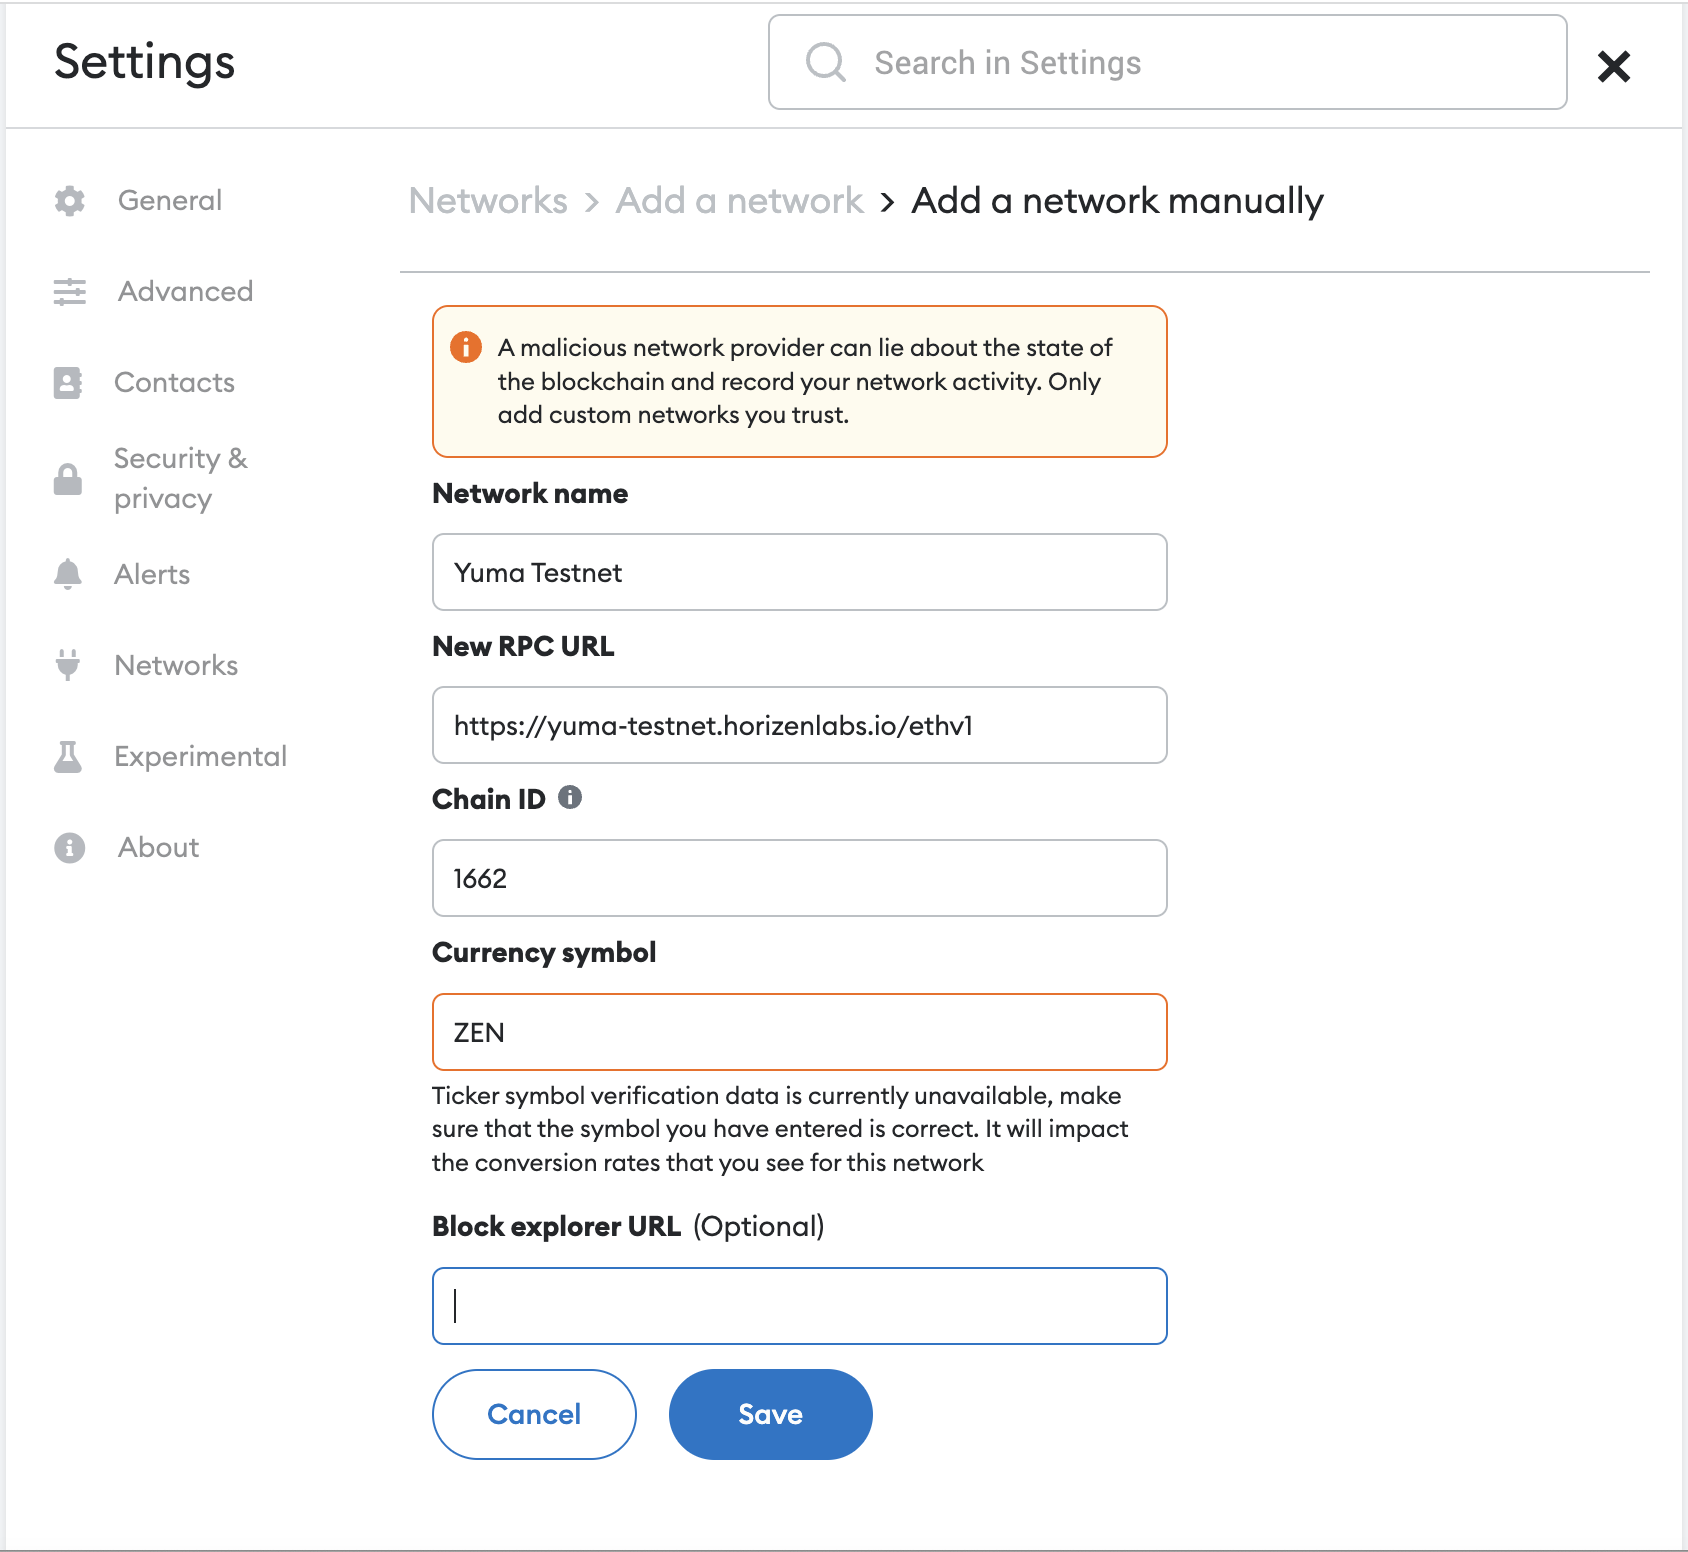
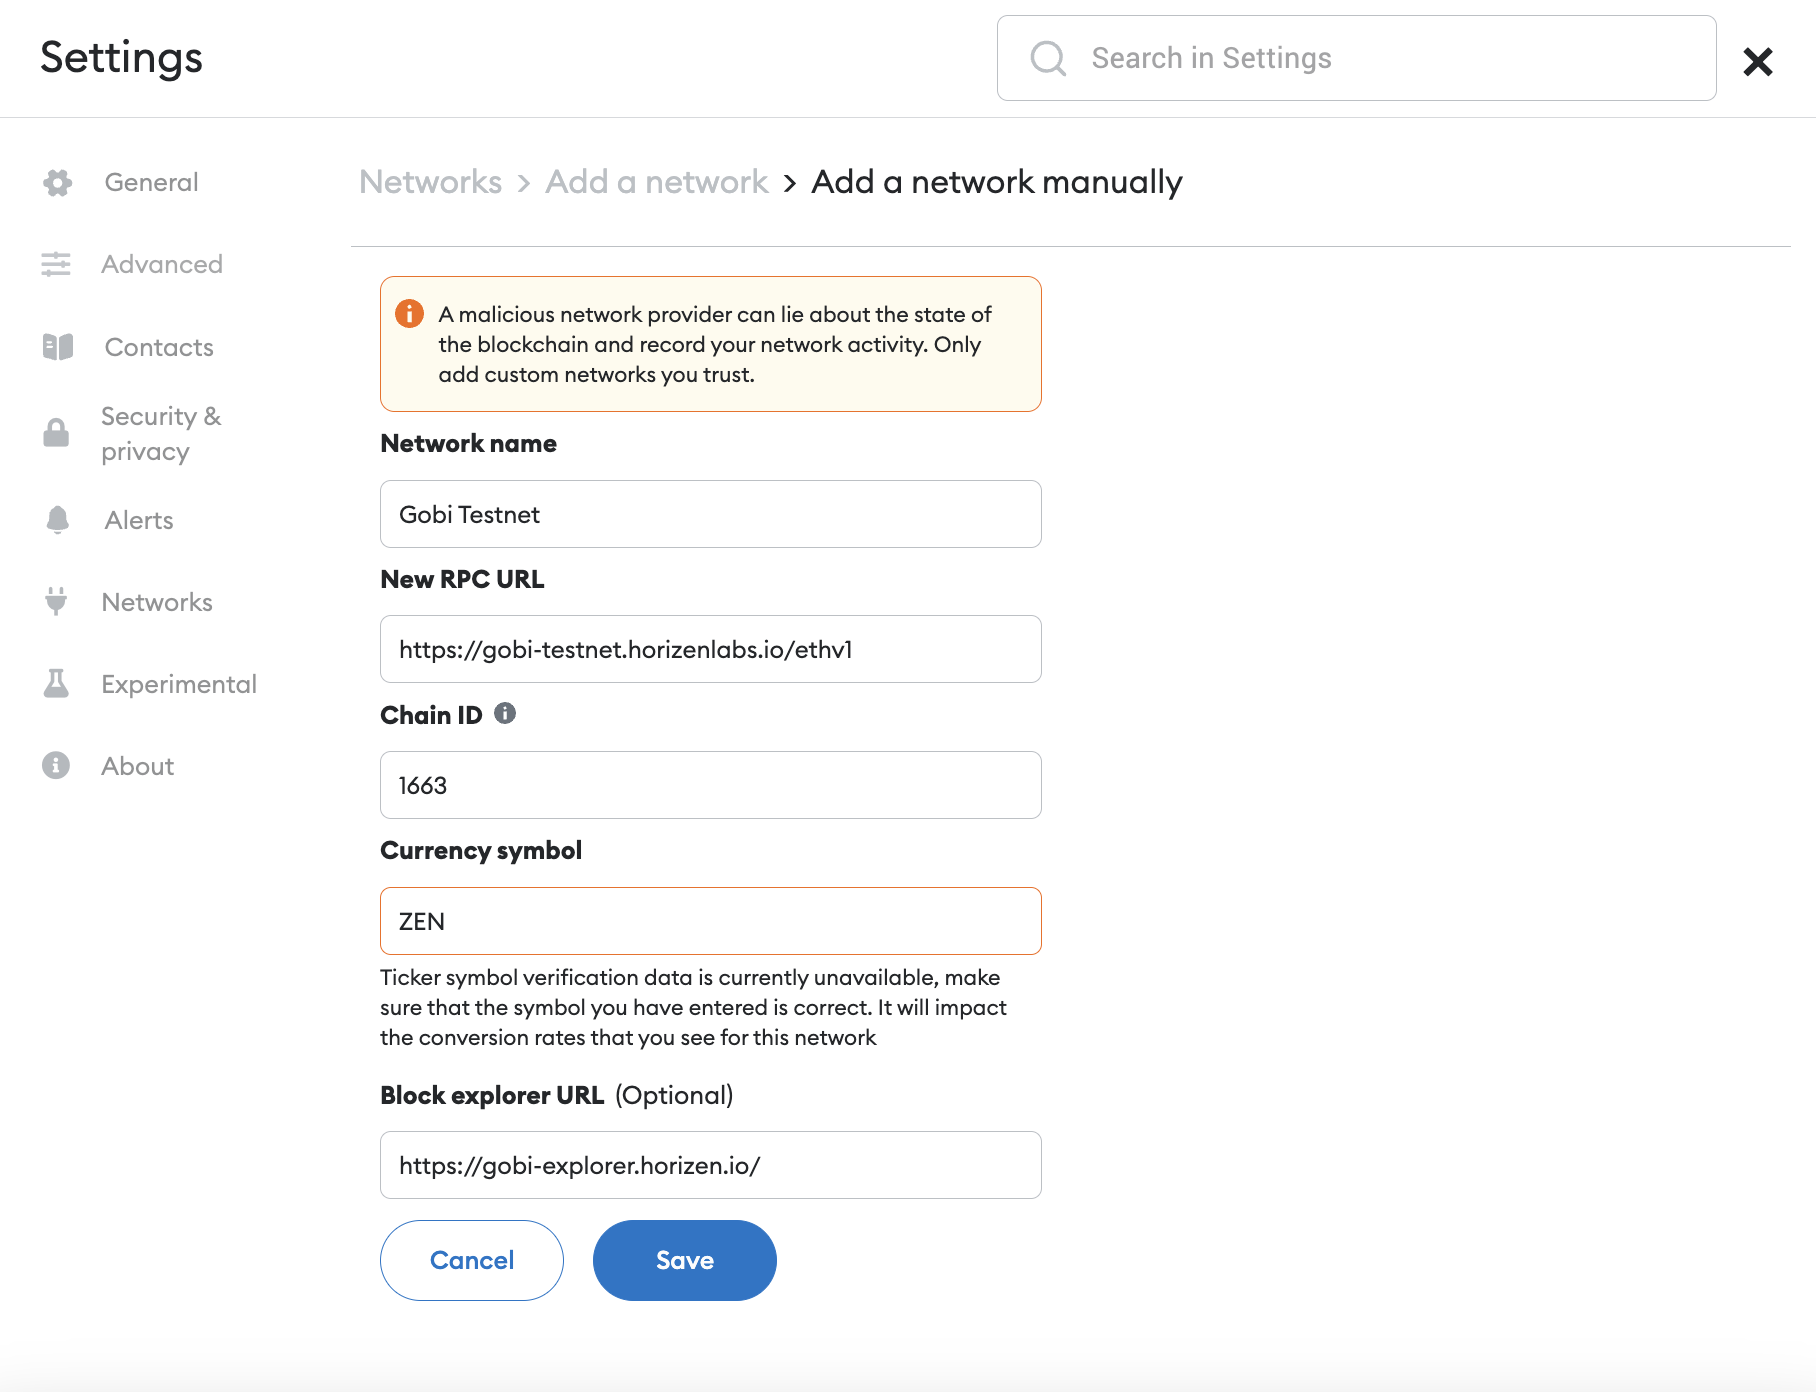
feat: update yuma => gobi

diff --git a/docs/deploy.md b/docs/deploy.md
@@ -8,7 +8,7 @@ sidebar_position: 5
 ## Deploying a Contract using Truffle
 
 Once the DemoToken contract is successfully compiled, it can now be deployed. 
-However, before deploying, make sure that the account you plan to use has sufficient ZEN. See [Get Started](/#connect-to-a-wallet) to install the MetaMask wallet, if needed. To deploy a contract on Dune Testnet or Gobi Testnet, your account must have sufficient ZEN. You can get some free test ZEN by using the [**Faucet**](https://gobi-testnet-faucet.horizen.io/ ).
+However, before deploying, make sure that the account you plan to use has sufficient ZEN. See [Get Started](/#connect-to-a-wallet) to install the MetaMask wallet, if needed. To deploy a contract on Dune Testnet or Gobi Testnet, your account must have sufficient ZEN. You can get some free test ZEN by using the [**Faucet**](https://faucet.horizen.io/ ).
 
 
 Add the deployment script, [1_deploy_DEMOToken.js](https://github.com/rocknitive/zen-sidechain-truffle/blob/master/migrations/1_deploy_DemoToken.js)  (below) in the `/migrations` folder:
@@ -563,7 +563,7 @@ Perform the following steps to run and deploy your smart contract:
 **Environment** - Click the drop-down menu to select the **Injected Provider** option.
 This option allows Remix to use your wallet (e.g. MetaMask). Your wallet must be active and running.  The Environment option details information about your wallet, such as the ChainID.
 
-**Note:** Make sure that **Yuma Testnet** is selected as the current environment in your wallet. See the [Get Started](https://eon.horizen.io/docs/) section for details on configuring Yuma Testnet to your wallet.
+**Note:** Make sure that **Gobi Testnet** is selected as the current environment in your wallet. See the [Get Started](https://eon.horizen.io/docs/) section for details on configuring Gobi Testnet to your wallet.
 
 
 By default, the **Remix VM** (previously called JavaScript VM) is used to connect to a sandbox blockchain in the web browser. The London version refers to the London fork of Ethereum. 
@@ -735,7 +735,7 @@ Use the following parameters to connect to Gobi Testnet:
 ```
 Network name:  Gobi Testnet 
 New RPC URL:  https://gobi-testnet.horizenlabs.io/ethv1 
-Chain ID: 1662 
+Chain ID: 1663 
 Currency symbol: ZEN
 ```
 

diff --git a/docs/build.md b/docs/build.md
@@ -136,7 +136,7 @@ A network is needed in order to deploy a smart contract. In the configuration fi
 …networks: {    
 	zen: {
 		provider: () => new HDWalletProvider("word1 … word12", `https://gobi-testnet.horizenlabs.io/ethv1`),
-      network_id: 1662,  
+      network_id: 1663,  
       production: false
     }
 …
@@ -147,7 +147,7 @@ A network is needed in order to deploy a smart contract. In the configuration fi
 
 **Note**: In the account field, replace “**word1 … word12**” with a mnemonic seed phrase for a valid wallet. Use the following [instructions](https://metamask.zendesk.com/hc/en-us/articles/360015290032-How-to-reveal-your-Secret-Recovery-Phrase) to retrieve your mnemonic seed phrase from MetaMask.
 
-The <code>network_id</code> is dependent on the environment in use and corresponds to the Chain ID. For Gobi Testnet, the Chain ID is **1662**.
+The <code>network_id</code> is dependent on the environment in use and corresponds to the Chain ID. For Gobi Testnet, the Chain ID is **1663**.
 
 Next, add this line at the top of the file:
 
@@ -196,7 +196,7 @@ truffle(zen)> web3.eth.getBlockNumber()
 
 ```
 truffle(zen)> web3.eth.getChainId()
-1662
+1663
 ```
 
 
@@ -631,7 +631,7 @@ Block Explorer: _leave blank_
 ```
 Network name:  Gobi Testnet Local
 New RPC URL:  http://127.0.0.1:9545/ethv1 
-Chain ID: 1662
+Chain ID: 1663
 Currency symbol: ZEN
 Block Explorer: https://gobi-explorer.horizen.io
 ```

diff --git a/docs/getting-zen.md b/docs/getting-zen.md
@@ -16,7 +16,7 @@ Perform the following steps to add TZEN to your wallet:
 
 
 1. In your MetaMask wallet, copy the **wallet address** to the clipboard.
-2. Click the link for the Horizen [Faucet](https://gobi-testnet-faucet.horizen.io). The **Horizen Test Token Faucet** page appears:
+2. Click the link for the Horizen [Faucet](https://faucet.horizen.io). The **Horizen Test Token Faucet** page appears:
 
 
 
@@ -41,7 +41,7 @@ You can choose one of the two options below to deposit some test ZEN into an acc
 
 
 
-* Go to the **_[Horizen Faucet](https://gobi-testnet-faucet.horizen.io/) - _** and get some free test ZEN.
+* Go to the **_[Horizen Faucet](https://faucet.horizen.io/) - _** and get some free test ZEN.
 * Make a *_Forward Transfer - _* The forward transfer is the process of transferring assets from the mainchain to the sidechain.
 
 The first option is faster and it’s available for testing purposes (in **Gobi Testnet**, without real value), while the second option moves a balance of ZEN from the Horizen *_mainchain _* to EON EVM.  Use Horizen [Sphere](https://github.com/HorizenOfficial/Sphere_by_Horizen/) to make a forward transfer.

diff --git a/docs/get-started.md b/docs/get-started.md
@@ -92,7 +92,7 @@ Adding a network example:
 
       Network name:  Gobi Testnet
       New RPC URL:  https://gobi-testnet.horizenlabs.io/ethv1
-      Chain ID: 1662 
+      Chain ID: 1663 
       Currency symbol: ZEN
       Block Explorer: https://gobi-explorer.horizen.io/
 
@@ -155,7 +155,7 @@ The `chainId` was introduced by Ethereum to prevent replay attacks on different 
   <tr>
    <td>Gobi Testnet
    </td>
-   <td>1662
+   <td>1663
    </td>
   </tr>
   <tr>
